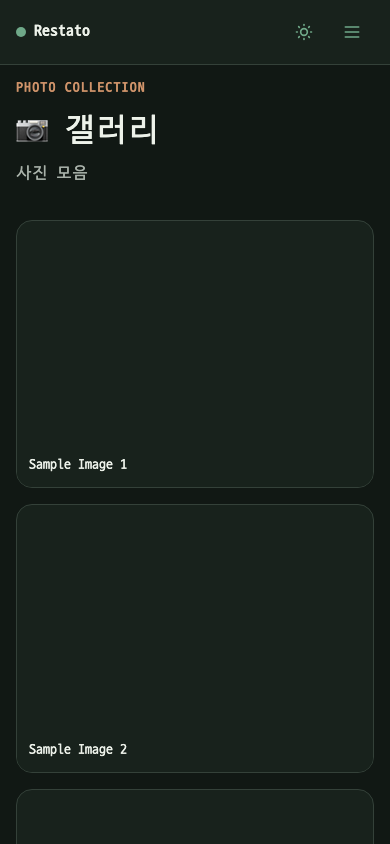
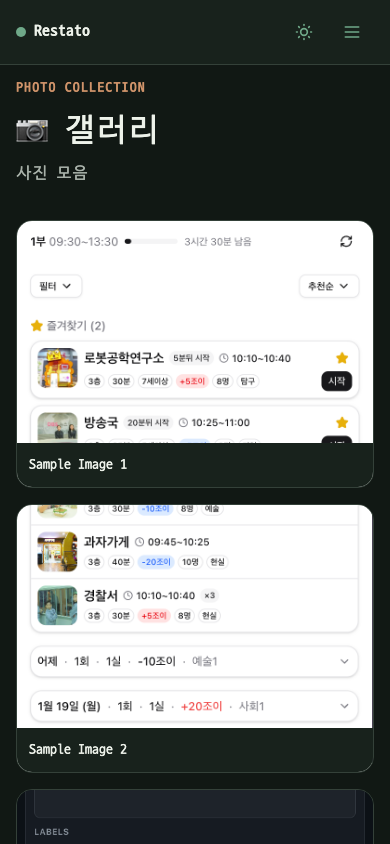
fix: make gallery visual evidence deterministic

diff --git a/tests/project-pages-contract.test.ts b/tests/project-pages-contract.test.ts
@@ -63,6 +63,13 @@ describe('Forest Café project page contract', () => {
     expect(source).toMatch(/data-gallery-close/);
   });
 
+  it('uses local gallery images so visual evidence is deterministic', () => {
+    const source = projectSources['gallery.astro'];
+
+    expect(source).not.toMatch(/https?:\/\/picsum\.photos/);
+    expect(source.match(/src: '\/images\/projects\//g)).toHaveLength(6);
+  });
+
   it('contains the jobworld process connectors in a positioned clipped grid', () => {
     const source = projectSources['jobworld-kids.astro'];
     const processGrid = source.match(/<div[^>]+data-jobworld-process-grid[^>]*>/)?.[0];
